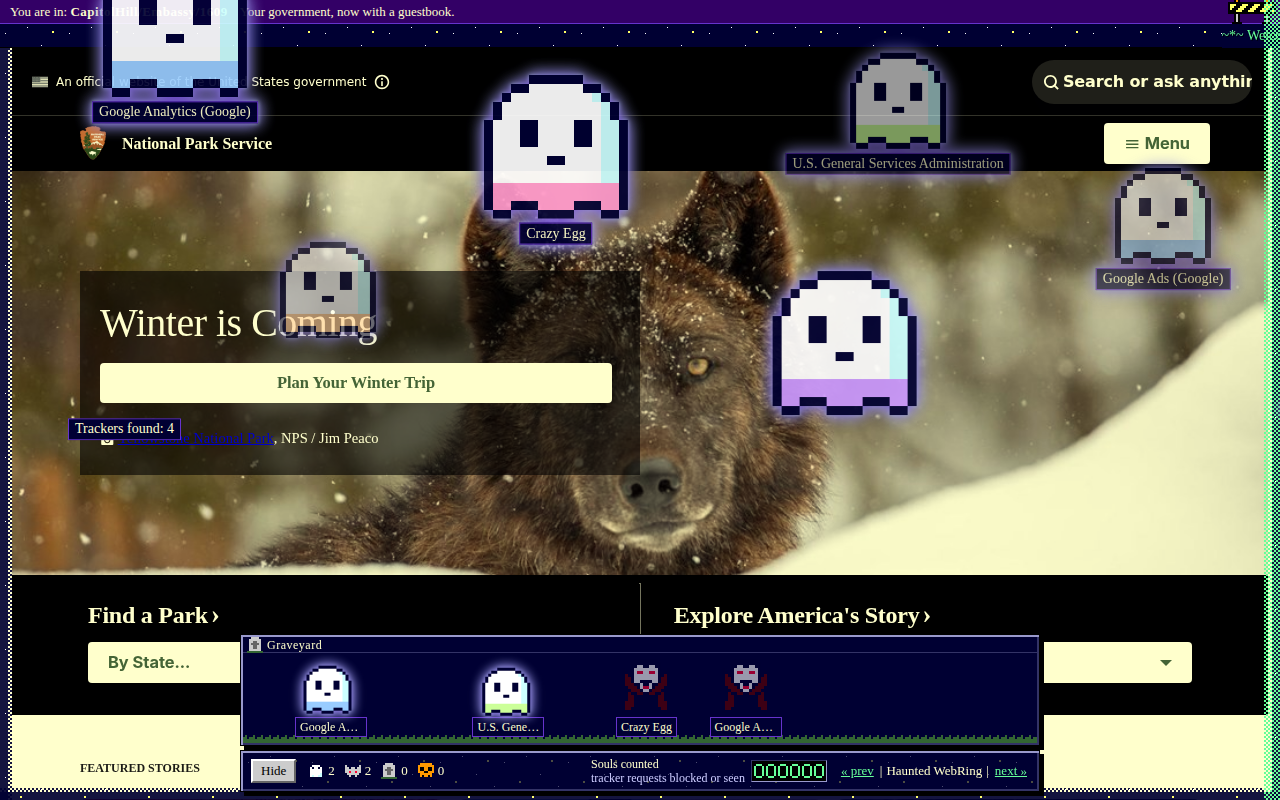
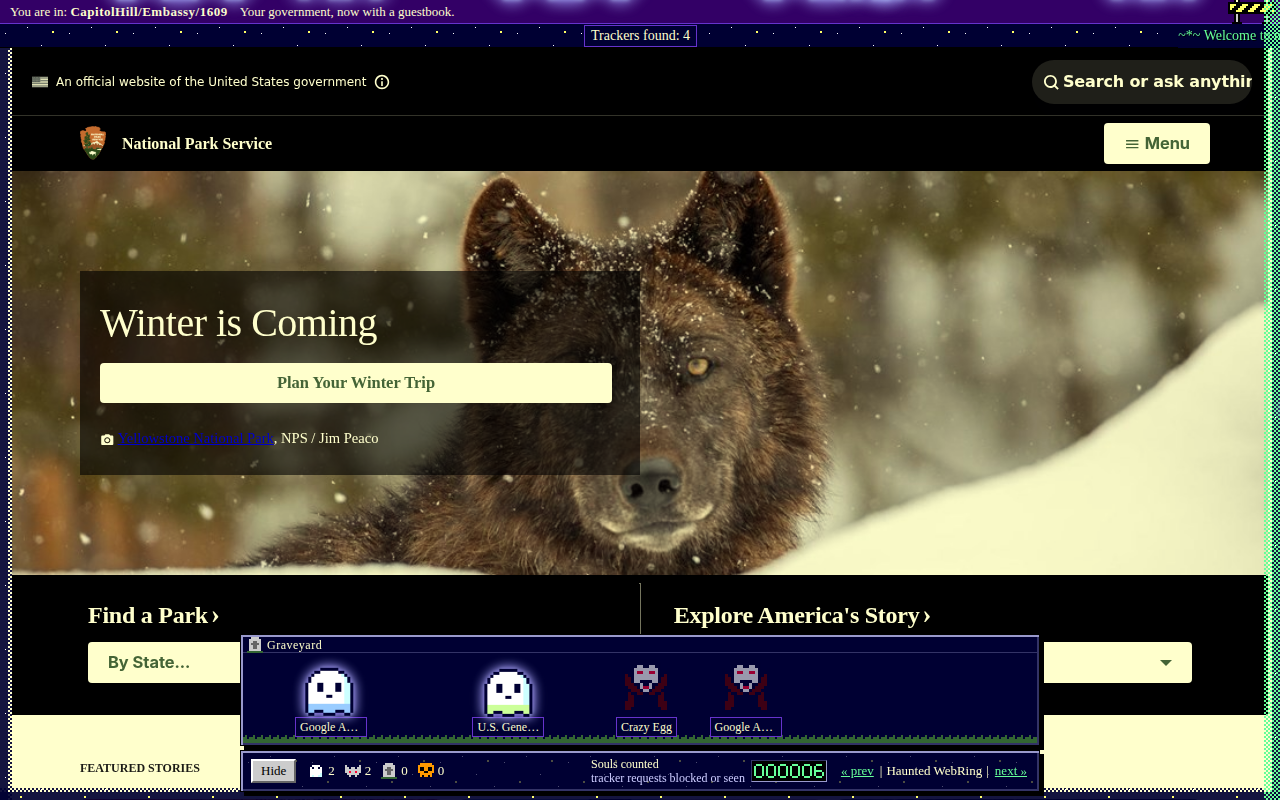
refilm the haunt on nps and cdc

diff --git a/scripts/real-site.pw.ts b/scripts/real-site.pw.ts
@@ -1,6 +1,6 @@
 // The haunt on real public pages, over the real network: `bun run docs:realsite`.
 // It builds the shipping extension, clicks Haunt in its popup and films the parade through to the
-// "Trackers found: N" caption. It writes docs/real-site-haunt.gif (the first page), a still of the
+// "Trackers found: N" caption at rest. It writes docs/real-site-haunt.gif (the first page), a still of the
 // caption on each page (docs/real-site-caption-<slug>.png) and docs/real-site.json (each page, the
 // date, its count and its parade's companies).
 // A docs tool, not a check: live pages change and networks fail, so it is in no CI or Docker stage,
@@ -92,9 +92,9 @@ async function capture(slug: string, url: string, gif: boolean) {
       };
     });
 
-    // The 3000ms moment plus a beat, one frame every 1/6s of page time. Each frame notes where the caption is.
+    // The 3000ms moment and the caption's hold (to 3600), one frame every 1/6s of page time. Each frame notes where the caption is.
     const captionAt: { k: number; mid: number }[] = [];
-    for (let k = 1; k <= 3.3 * FPS; k++) {
+    for (let k = 1; k <= 3.5 * FPS; k++) {
       await page.waitForTimeout(Math.max(0, start + (k * 1000) / FPS / SLOW - Date.now()));
       const at = n;
       await frame();
@@ -106,9 +106,10 @@ async function capture(slug: string, url: string, gif: boolean) {
     }
     await cdp.send("Animation.setPlaybackRate", { playbackRate: 1 });
 
-    // The still: the frame whose caption sits nearest the middle of the screen.
+    // The still: the last frame with the caption, at rest in the marquee band (off the page's text).
     expect(captionAt.length).toBeGreaterThan(0);
-    const still = captionAt.reduce((a, b) => (Math.abs(b.mid - VIEW.height / 2) < Math.abs(a.mid - VIEW.height / 2) ? b : a));
+    const still = captionAt.at(-1)!;
+    expect(still.mid).toBeLessThan(VIEW.height / 3);
     copyFileSync(name(still.k), `docs/real-site-caption-${slug}.png`);
     if (gif) {
       // Let the moment play out (no finite animation left but the marquee), then hold the settled page
